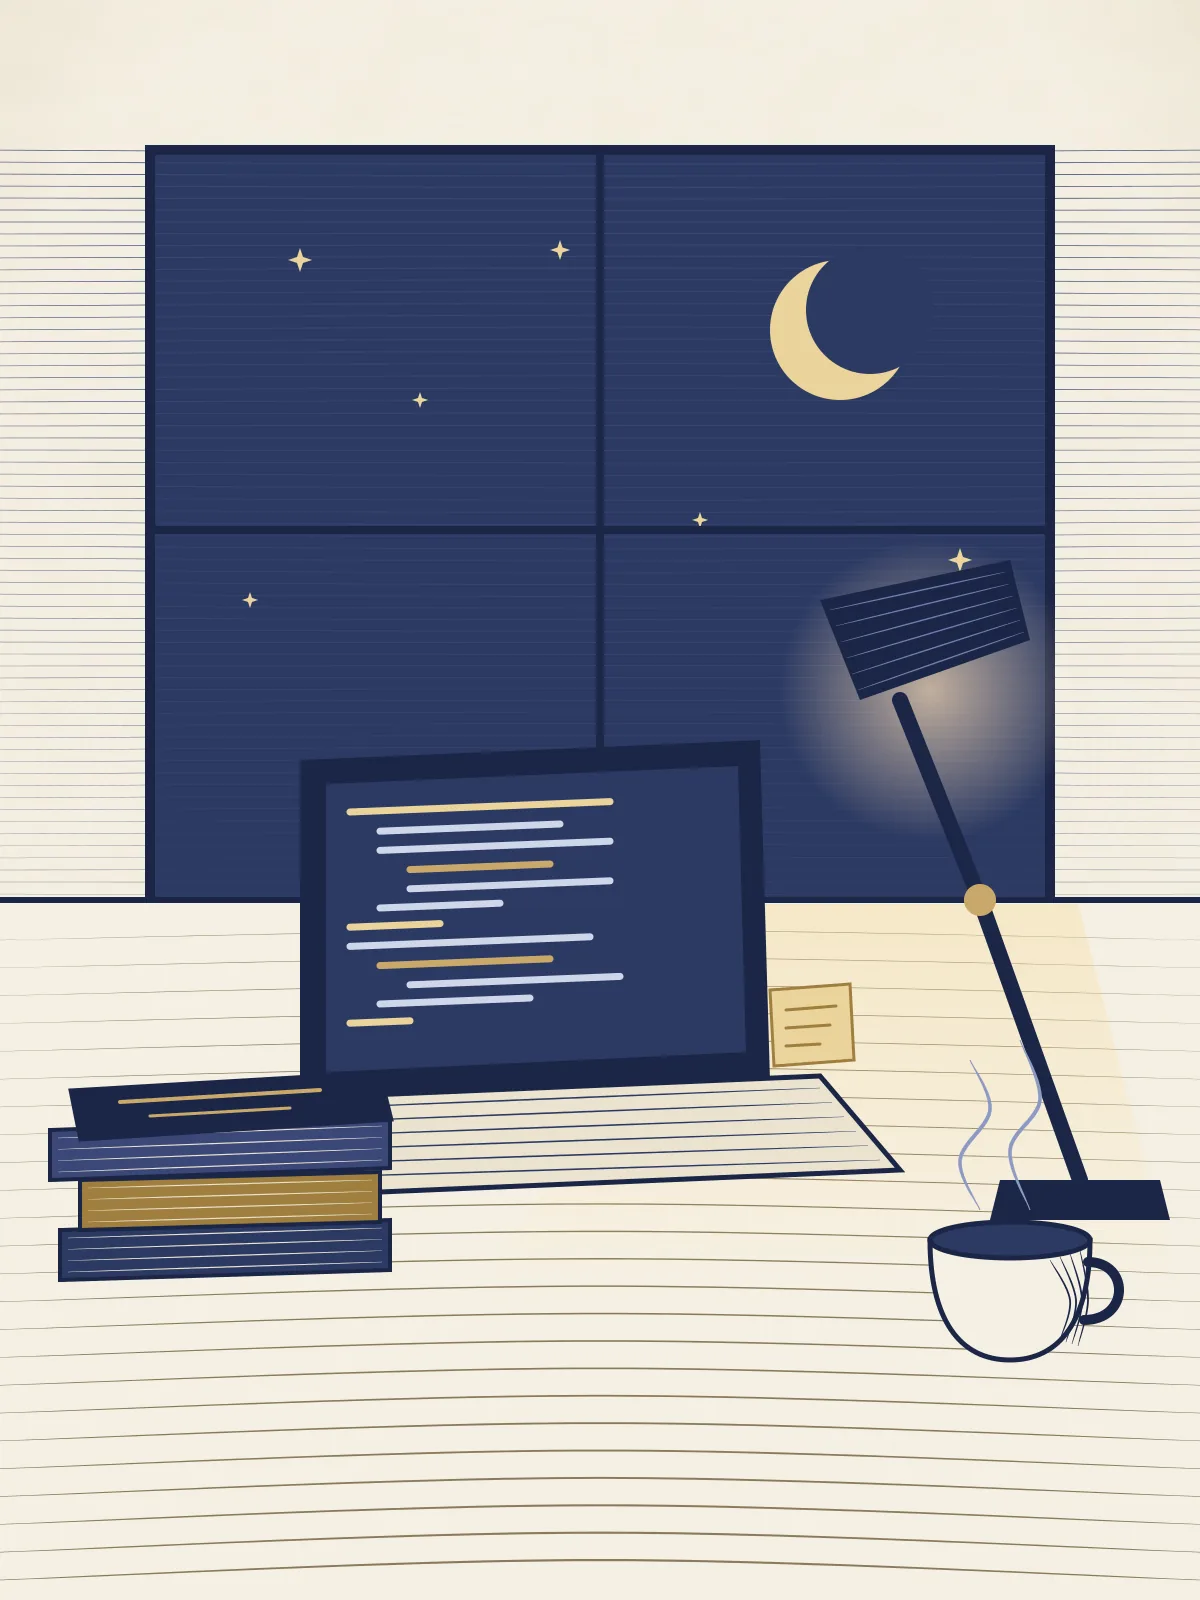
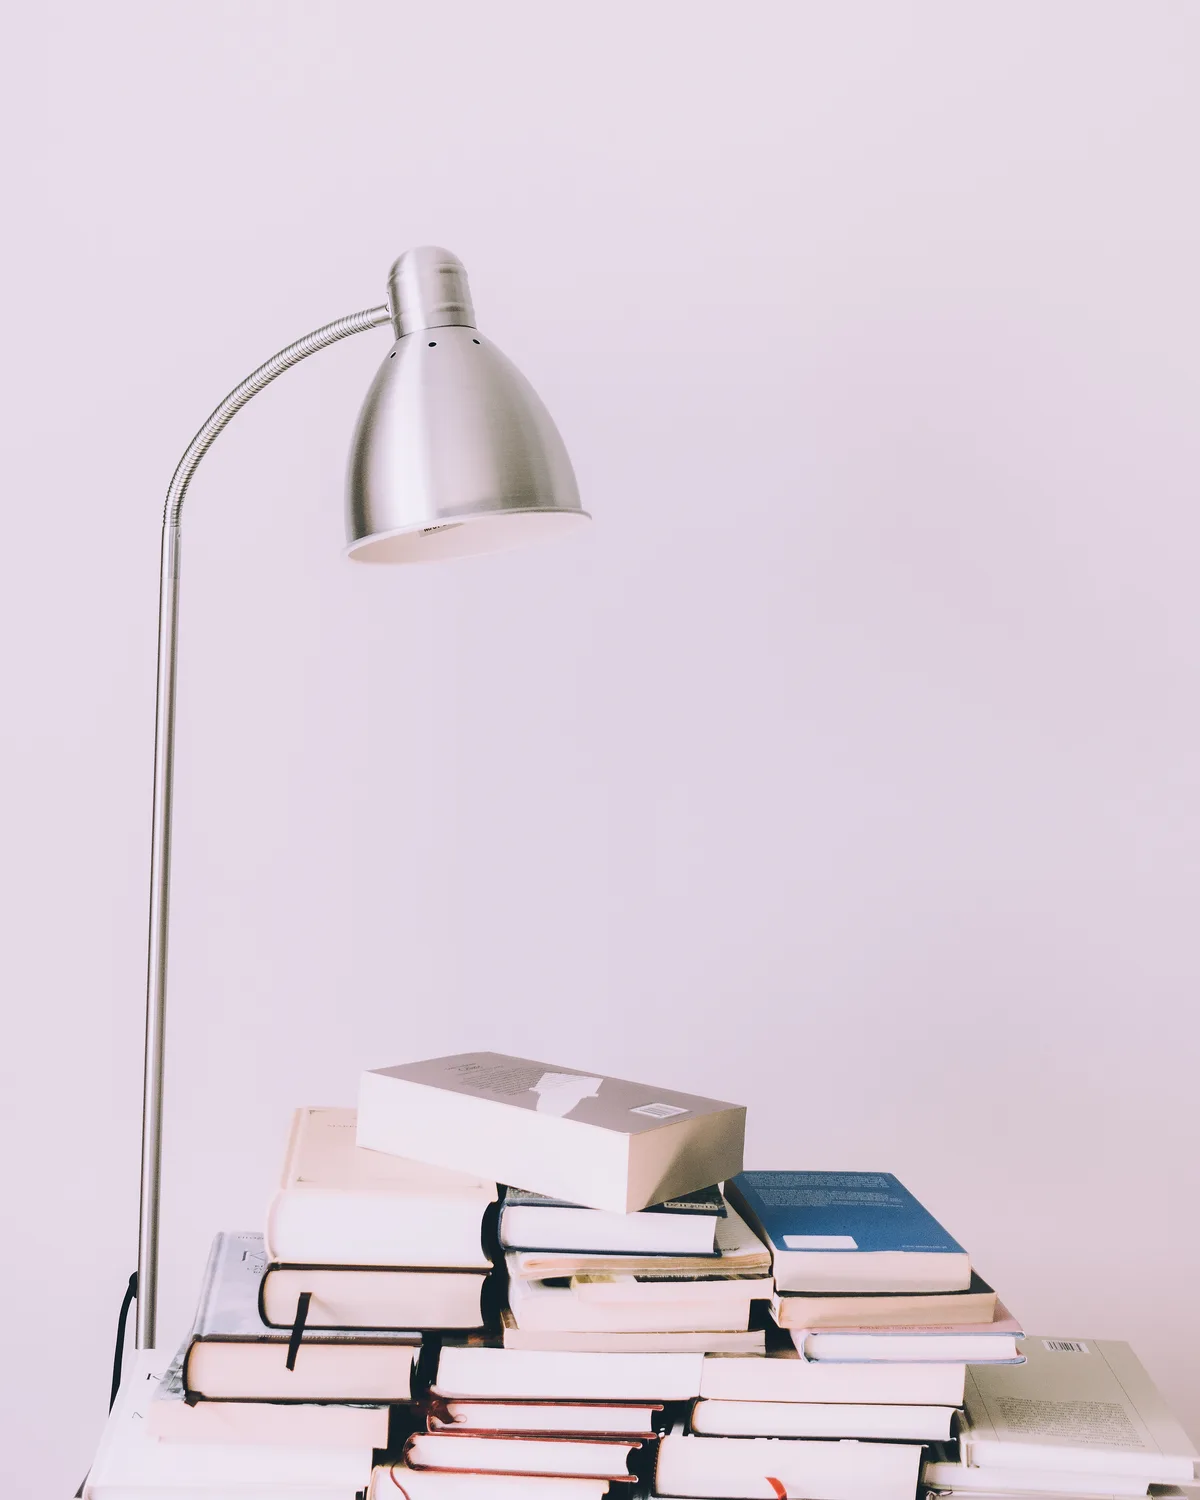
Galeri: ganti ilustrasi objek dengan foto CC0/PD (topi, buket, gedung, buku)

diff --git a/lib/data.js b/lib/data.js
@@ -3,8 +3,8 @@
 //  Ubah seluruh isi undangan dari satu tempat ini saja.
 //
 //  Ini undangan CONTOH: nama, kampus, dan tempat fiktif. Gambar di
-//  /public/images adalah ilustrasi buatan sendiri bergaya gravir
-//  (tokoh fiktif) — ganti dengan foto asli: potret wisudawan 5:6,
+//  /public/images: tokoh (wisudawan, keluarga, teman) = ilustrasi buatan sendiri;
+//  objek (topi, bunga, gedung, buku) = foto CC0/PD, sumbernya di SUMBER.md — ganti dengan foto asli: potret wisudawan 5:6,
 //  galeri potret 3:4. Tulis juga `alt` yang menjelaskan isi foto.
 // ============================================================
 
@@ -87,10 +87,10 @@ const config = {
   // -- Galeri (potret 3:4) --
   gallery: [
     { src: '/images/foto-1.webp', alt: 'Dimas bertoga diapit Bapak berpeci dan Ibu berhijab' },
-    { src: '/images/foto-2.webp', alt: 'Toga-toga dilempar ke udara di depan matahari' },
-    { src: '/images/foto-3.webp', alt: 'Map ijazah terbuka, topi toga, dan buket bunga di atas kain beludru' },
-    { src: '/images/foto-4.webp', alt: 'Gedung auditorium bertiang dengan anak tangga di depannya' },
-    { src: '/images/foto-5.webp', alt: 'Meja belajar malam hari: laptop berisi kode, tumpukan buku, dan secangkir kopi' },
+    { src: '/images/foto-2.webp', alt: 'Topi-topi wisuda dilempar ke langit biru' },
+    { src: '/images/foto-3.webp', alt: 'Buket mawar jingga untuk hari wisuda' },
+    { src: '/images/foto-4.webp', alt: 'Gedung bertiang dengan anak tangga yang lebar' },
+    { src: '/images/foto-5.webp', alt: 'Lampu meja dan tumpukan buku, teman begadang selama skripsi' },
     { src: '/images/foto-6.webp', alt: 'Dimas bersama dua teman seangkatan yang bertoga' },
   ],
 

diff --git a/public/images/SUMBER.md b/public/images/SUMBER.md
@@ -1,8 +1,15 @@
 # Sumber gambar
 
-| Berkas | Isi | Pembuat | Lisensi |
-|---|---|---|---|
-| `wisudawan.webp` | Potret ilustrasi Dimas Prasetyo bertoga | Dibuat untuk demo ini (SVG bergaya gravir digambar lewat kode, diekspor ke WebP) | Milik proyek |
-| `foto-1.webp` … `foto-6.webp` | Ilustrasi galeri: bersama orang tua, lempar toga, ijazah & buket, auditorium, malam skripsi, bersama teman | Dibuat untuk demo ini (cara yang sama) | Milik proyek |
+Tokoh (wisudawan, orang tua, teman) = ilustrasi buatan sendiri tanpa wajah. Objek = foto domain publik/CC0, dipangkas ke rasio 4:5 dan diekspor ke WebP.
 
-Tidak ada foto pihak ketiga di proyek ini. Tokoh, kampus, dan gedungnya fiktif.
+| Berkas | Isi | Pembuat | Lisensi | Sumber |
+|---|---|---|---|---|
+| `wisudawan.webp` | Potret ilustrasi Dimas Prasetyo bertoga | Dibuat untuk demo ini (SVG bergaya gravir, diekspor ke WebP) | Milik proyek | - |
+| `foto-1.webp` | Ilustrasi Dimas bersama orang tua | Dibuat untuk demo ini | Milik proyek | - |
+| `foto-6.webp` | Ilustrasi Dimas bersama dua teman | Dibuat untuk demo ini | Milik proyek | - |
+| `foto-2.webp` | Topi-topi wisuda dilempar ke langit (dipangkas ke bagian langit saja) | Army Sgt. Amber Smith / pemerintah AS | Domain publik | https://commons.wikimedia.org/wiki/File:US_Naval_Academy_graduation_hat_toss_2019.png (pendekatan: topi seragam, bukan toga) |
+| `foto-3.webp` | Buket mawar jingga | Gerda Arendt | CC0 | https://commons.wikimedia.org/wiki/File:Rose_bouquet,_D%C3%B6hren.jpg |
+| `foto-4.webp` | Gedung bertiang dengan tangga lebar (hitam putih, tepi arsip dipangkas) | Historic American Buildings Survey | Domain publik | https://commons.wikimedia.org/wiki/File:SOUTHWEST_FACADE,_MAIN_BLOCK_WITH_APPROACHING_STEPS_-_Virginia_State_Capitol,_Bank_and_10th_Streets,_Capitol_Square,_Richmond,_Independent_City,_VA_HABS_VA,44-RICH,9-3.tif (pendekatan: gedung nyata, tanpa logo) |
+| `foto-5.webp` | Lampu meja dan tumpukan buku | freestocks.org | CC0 | https://commons.wikimedia.org/wiki/File:Metal_desk_lamp_and_books_pile_(42381074432).jpg |
+
+Kampus, tokoh, dan acaranya fiktif.
